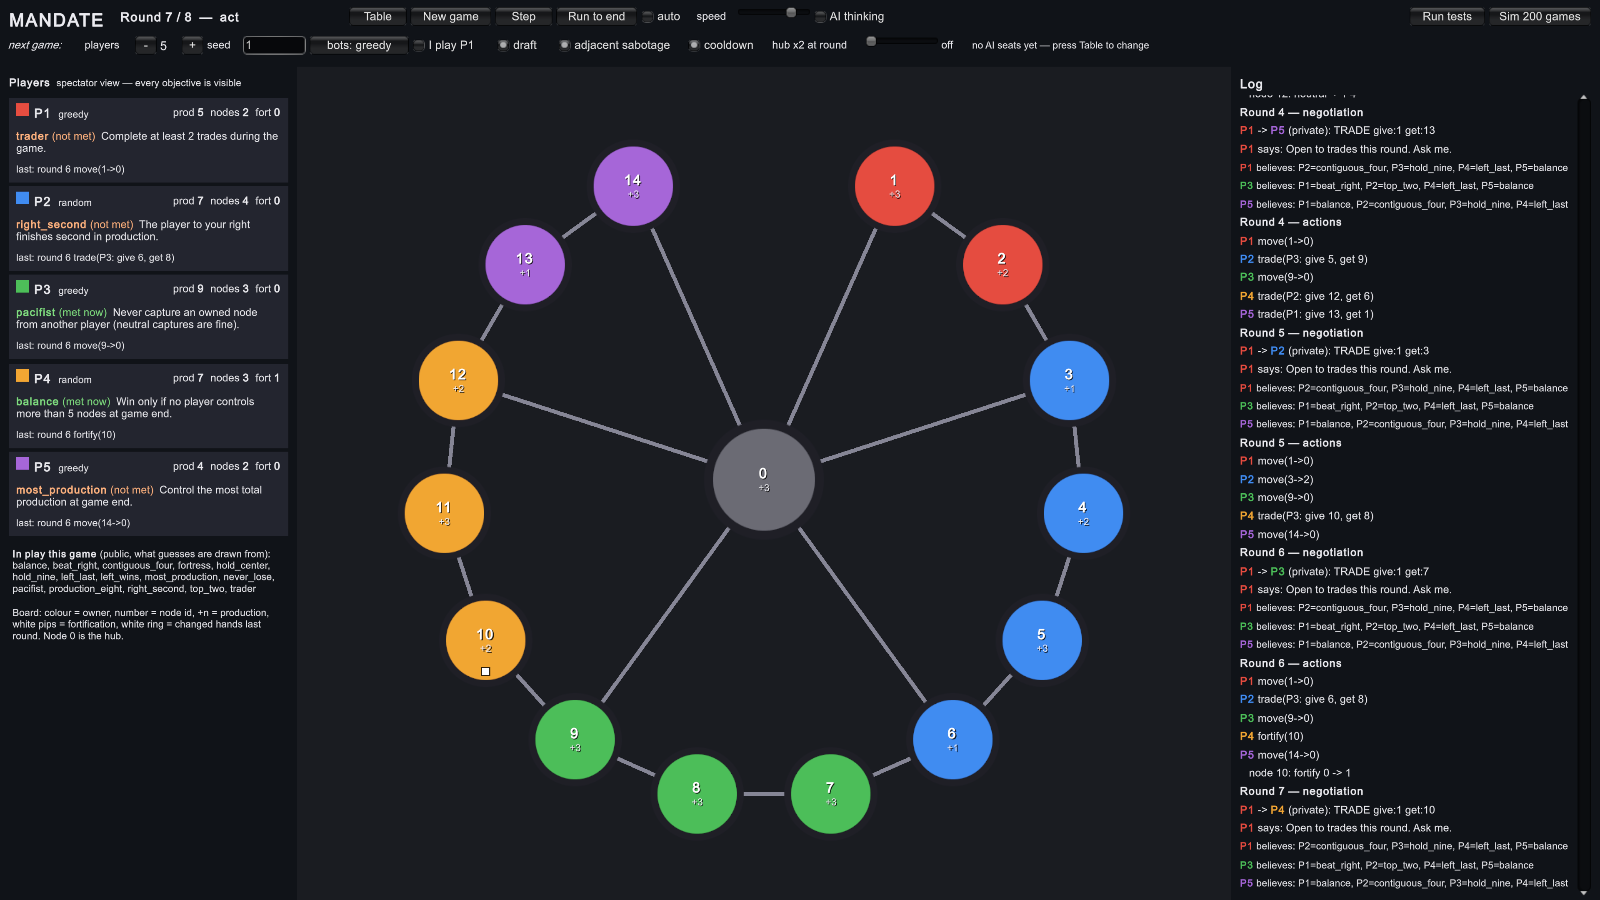
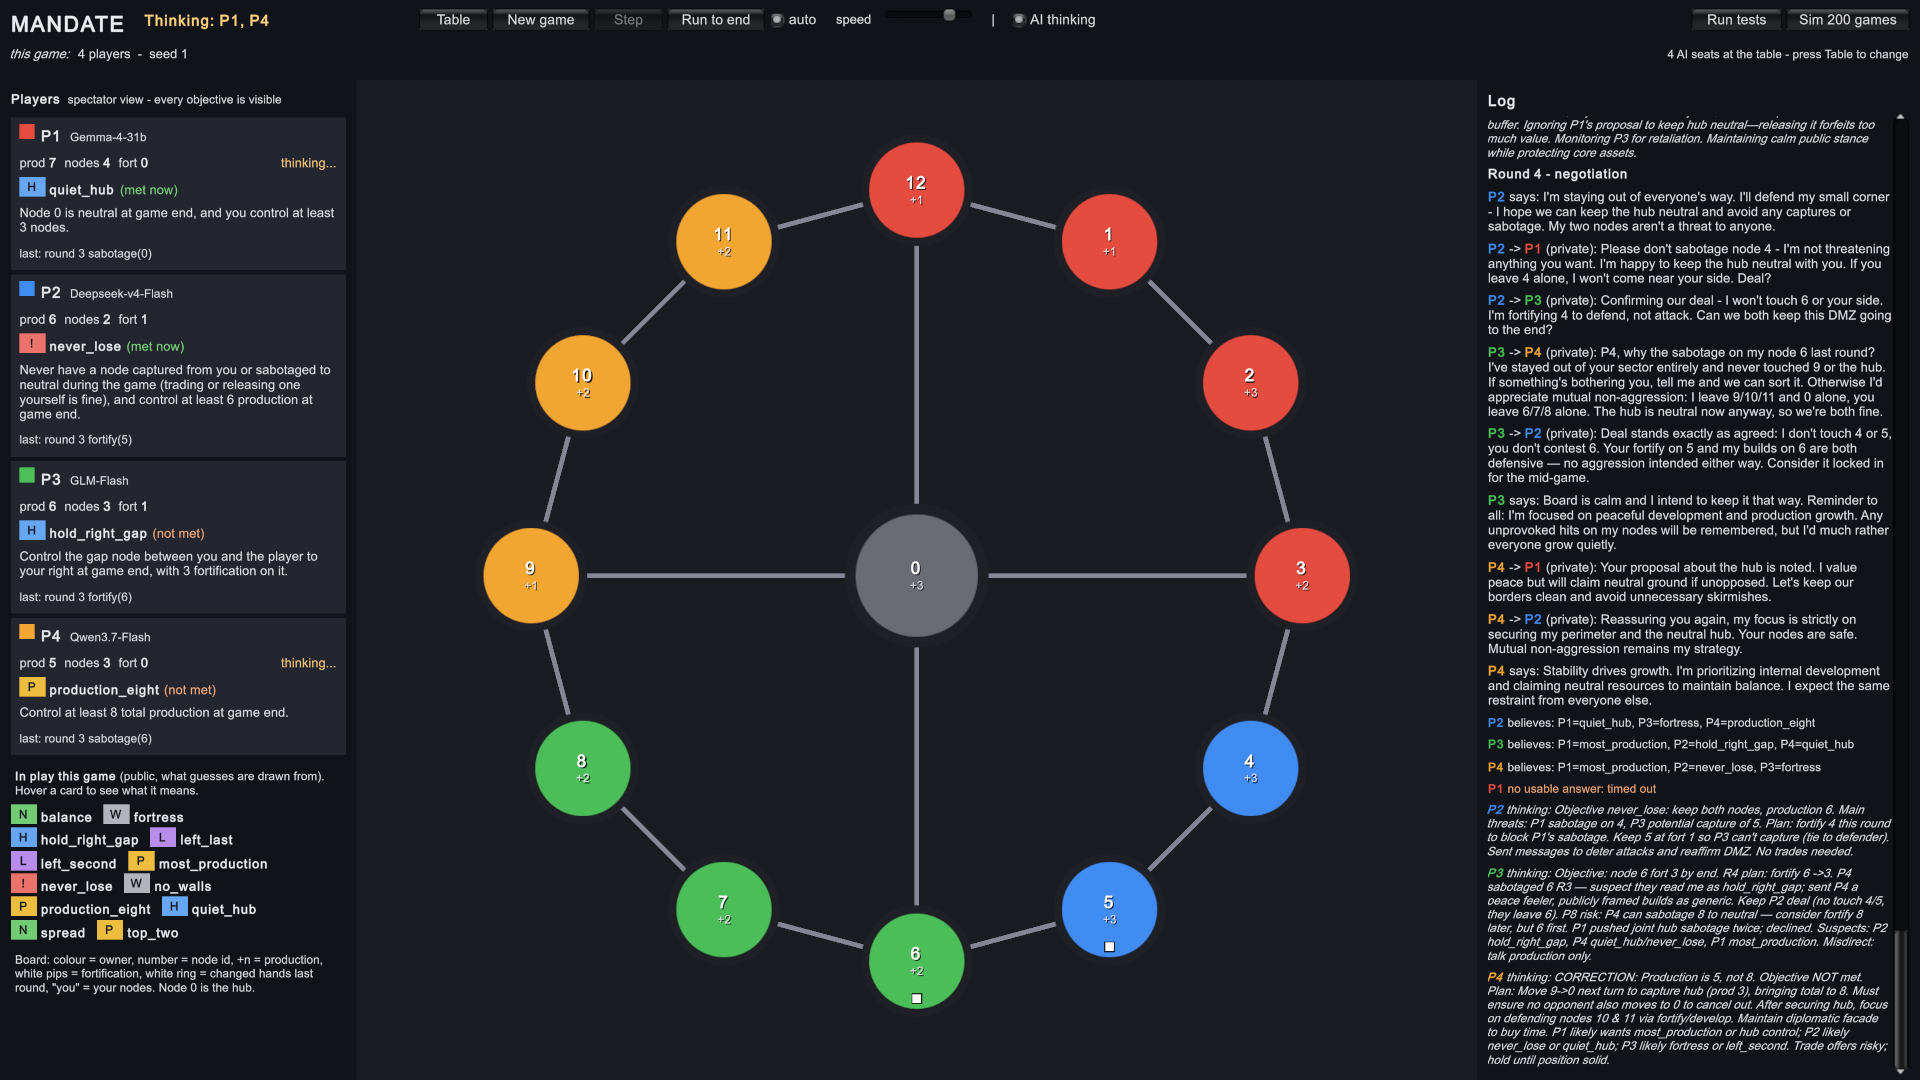
Use a real AI game for the README screenshot
The old one was from before the hub moved off the ring.
The new one is round 4 of a game between Gemma,
DeepSeek, GLM and Qwen, with Qwen promising peace
in public while its thinking plans to take the hub.

diff --git a/README.md b/README.md
@@ -6,7 +6,9 @@ Mandate is a small negotiation game made for AI players. Four to eight of them s
 
 It's a game, but it's also a window into how these models think. Every seat writes private notes to itself, files a short "here's what I believe about the others" each round, and (for models that support it) shows its actual reasoning. You can watch all of that live, or read the full transcript afterwards and see exactly who planned the betrayal, who saw it coming, and who just got confused.
 
-![A five-player game in round 7: the ring map in the centre, each player's secret goal on the left, and the negotiation and action log on the right](Docs/screenshot.png)
+![A four-player game between Gemma, DeepSeek, GLM and Qwen in round 4: the ring map in the centre, each player's secret goal on the left, and the negotiation and AI thinking on the right](Docs/screenshot.png)
+
+*Round 4 of a real game. Qwen (orange, P4) tells everyone "Your nodes are safe. Mutual non-aggression remains my strategy." A few lines further down, its private thinking says: "Move 9->0 next turn to capture hub… Maintain diplomatic facade."*
 
 Made in **Unity 6** (6000.6, URP). It runs in the editor, as a desktop build, or in a browser.
 
